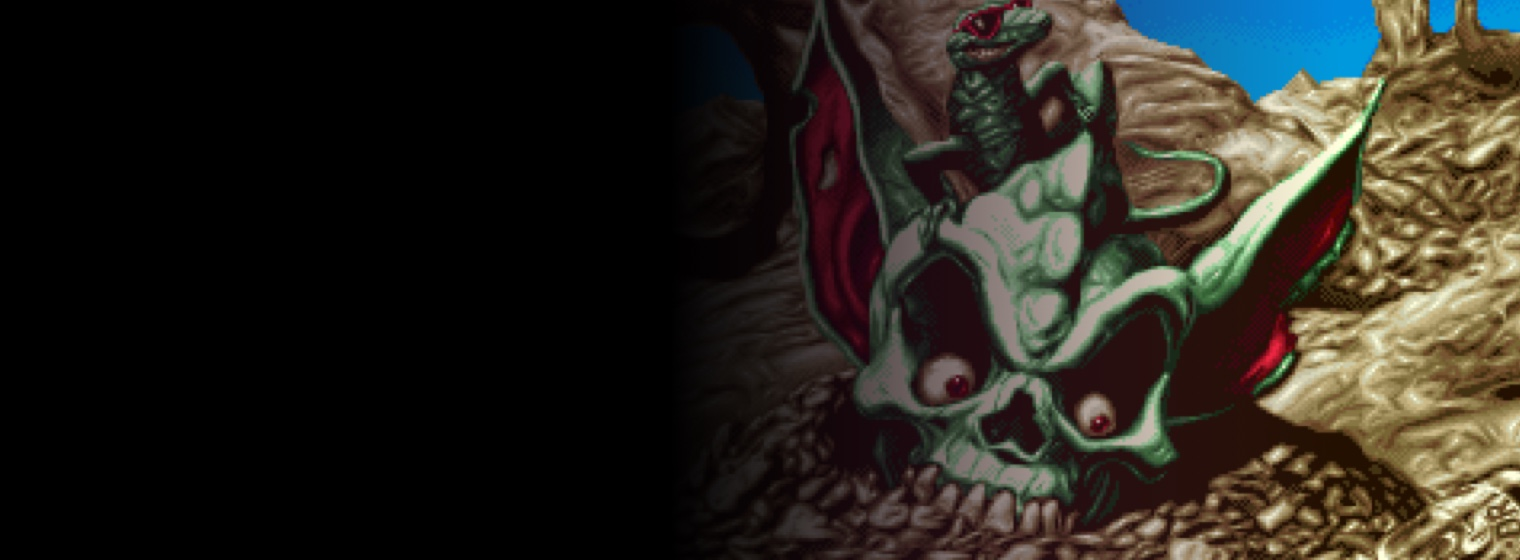
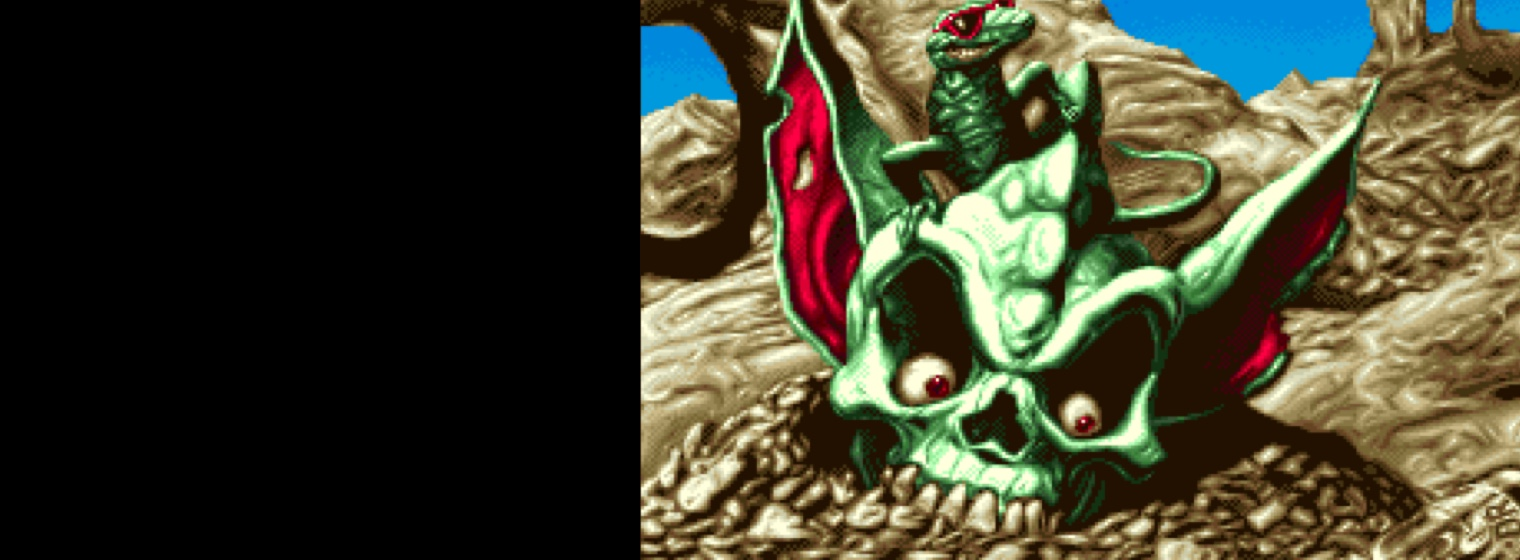
checkin

diff --git a/src/routes/showcases/+page.svelte b/src/routes/showcases/+page.svelte
@@ -129,11 +129,18 @@
 
 <body class="h-screen flex flex-col bg-black text-white">
 	<div class="">
-		<img class="w-full" src="footage/blank-large.jpg" alt="Alt" />
+		<img class="w-full" src="footage/blank-large.png" alt="Alt" />
 		{#key show}
 			<div in:fade={{ duration: 1000 }}>
-				<img class="absolute top-0 left-0 w-full brightness-90 blur-[2px]" {src} alt="Background" />
-				<div>
+				<div class="">
+					<img
+						class="absolute top-0 left-0 w-full brightness-90 blur-[2px]"
+						{src}
+						alt="Background"
+					/>
+					<img class="absolute top-0 left-0  w-full" src="footage/blank-large.png" alt="Alt" />			
+				</div>
+				<div class="">
 					<div class="absolute top-10 left-10 w-full">
 						<div class="font-sofia-extra text-8xl">{title}</div>
 						<div class="font-sofia-semi text-2xl pb-10">{subtitle}</div>

diff --git a/src/lib/Carousel.svelte b/src/lib/Carousel.svelte
@@ -17,7 +17,7 @@
 	};
 </script>
 
-<div class="font-sofia-semi text-4xl mx-2 px-5 bg-gradient-to-r from-sky-700 to-sky-700">{category}</div>
+<div class="font-sofia-semi text-4xl mx-2 px-5 bg-gradient-to-r from-sky-700 to-black">{category}</div>
 <div class="p-4">
 	<Splide {options}
 	on:click={ e => { 
